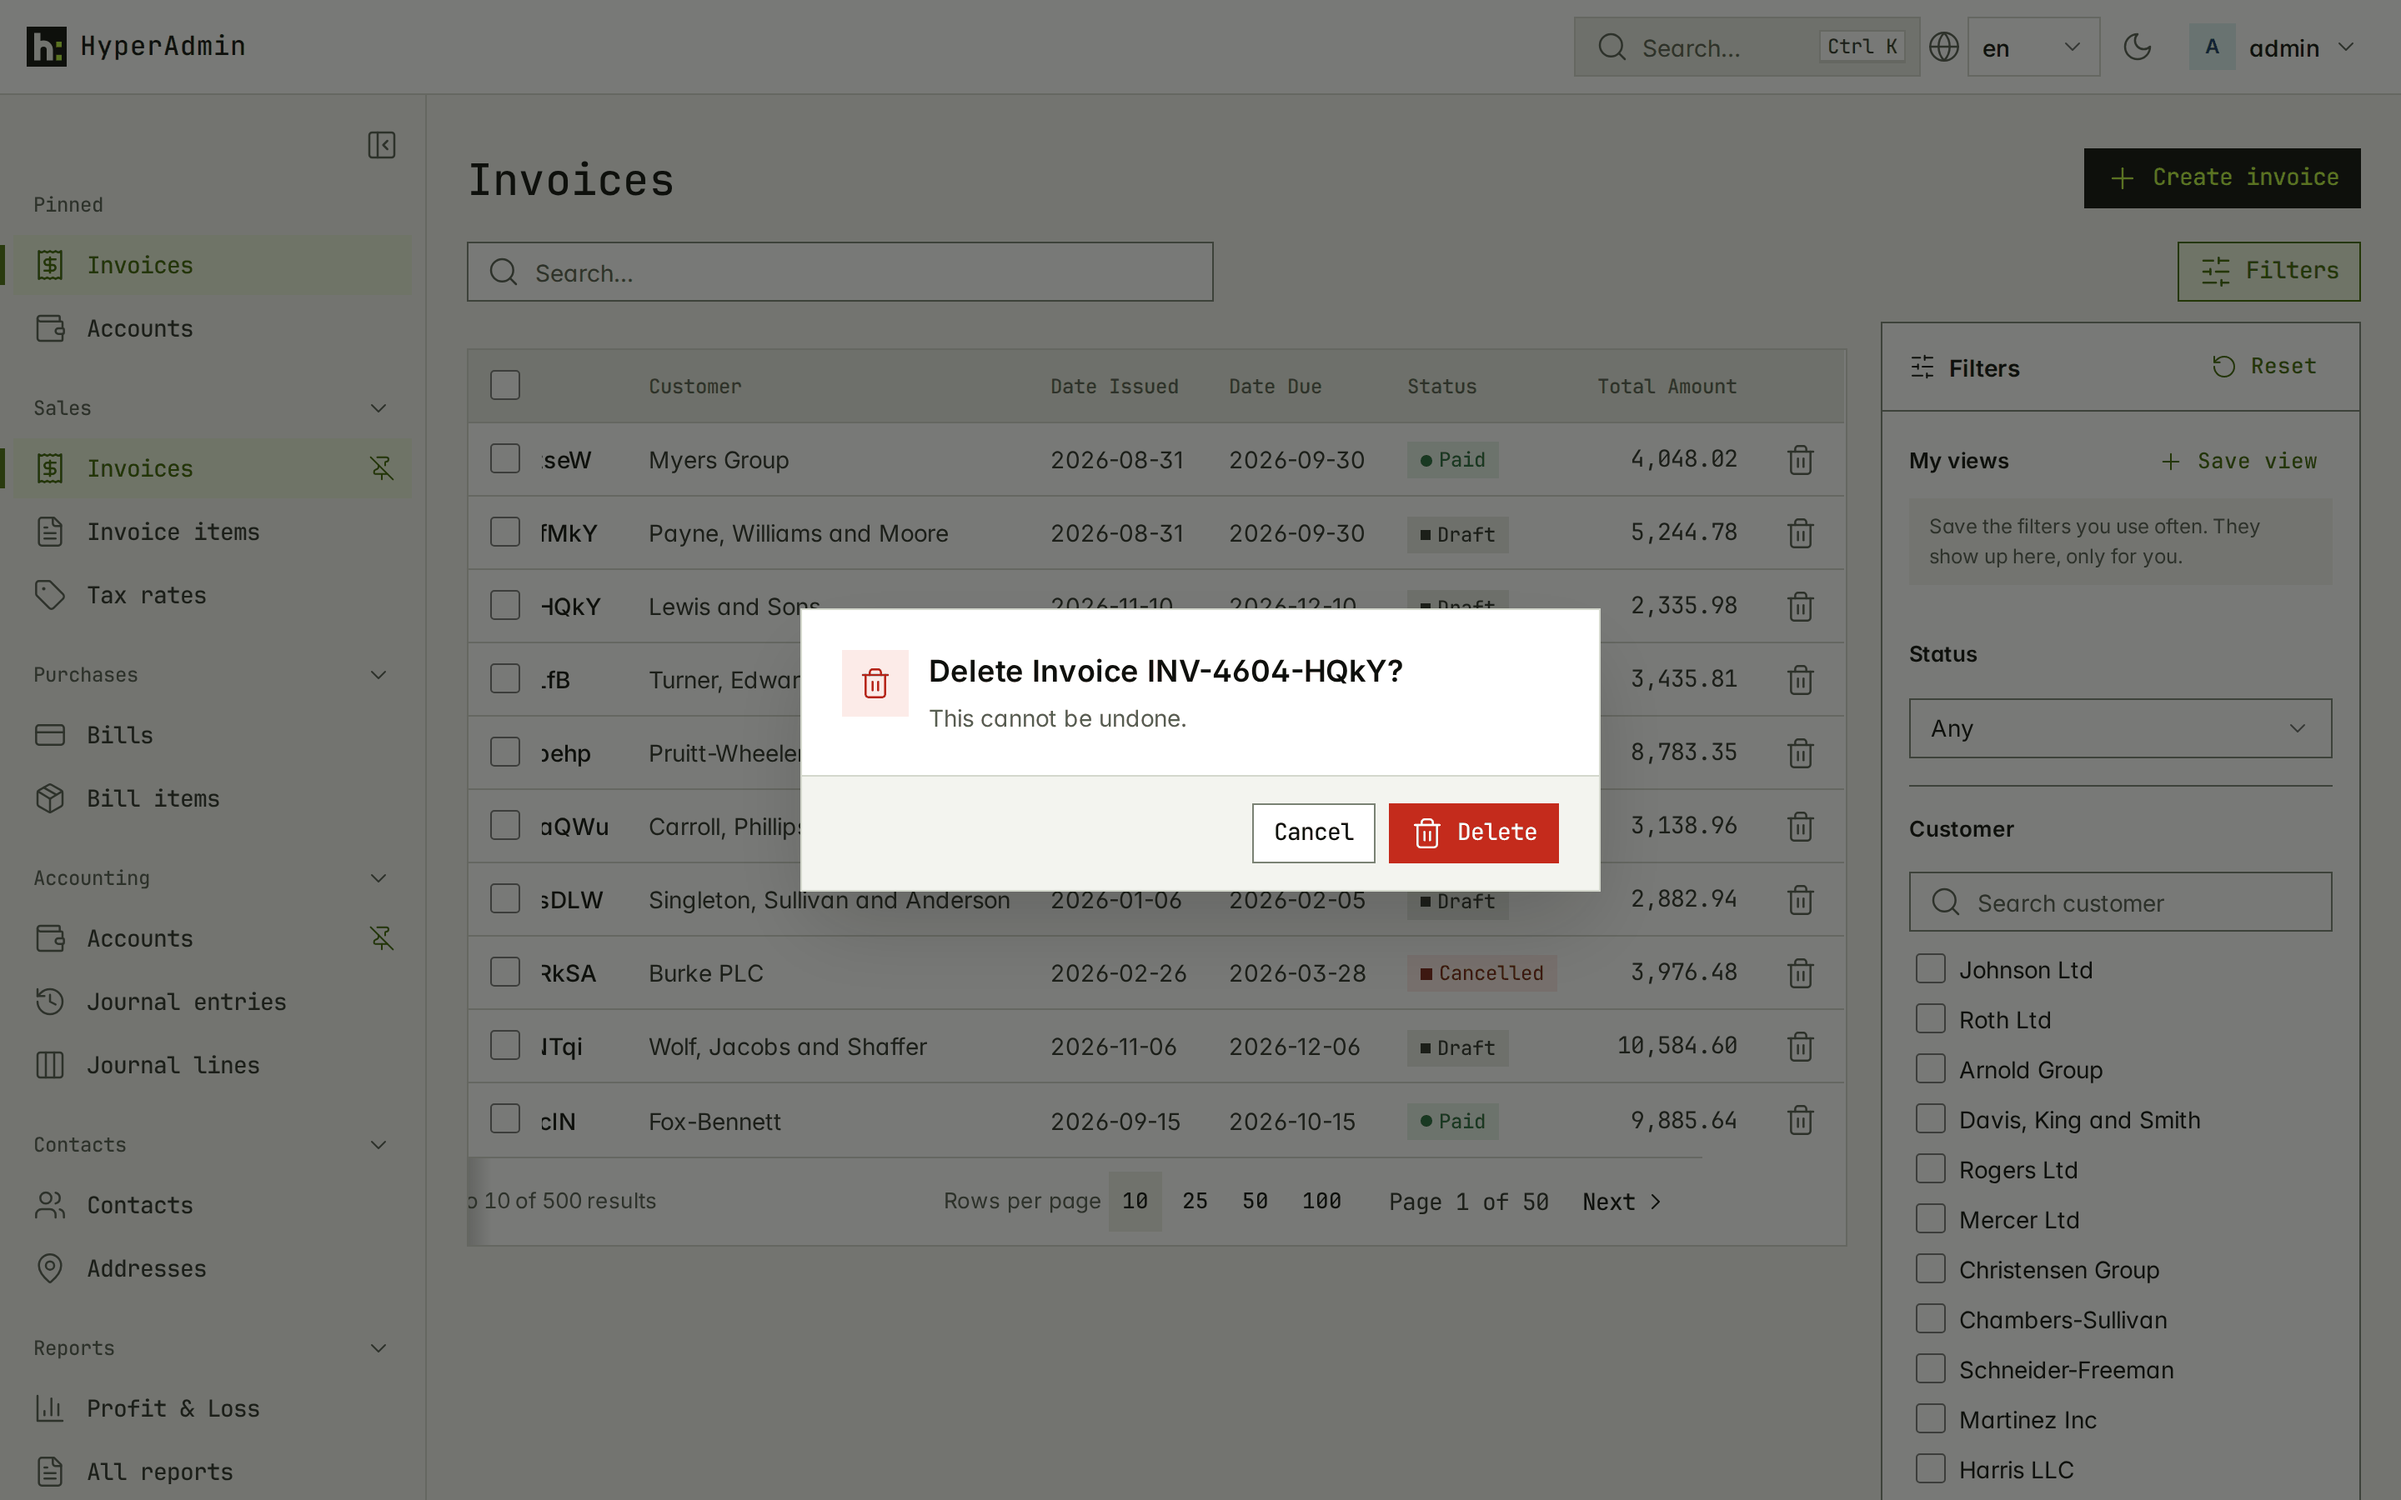
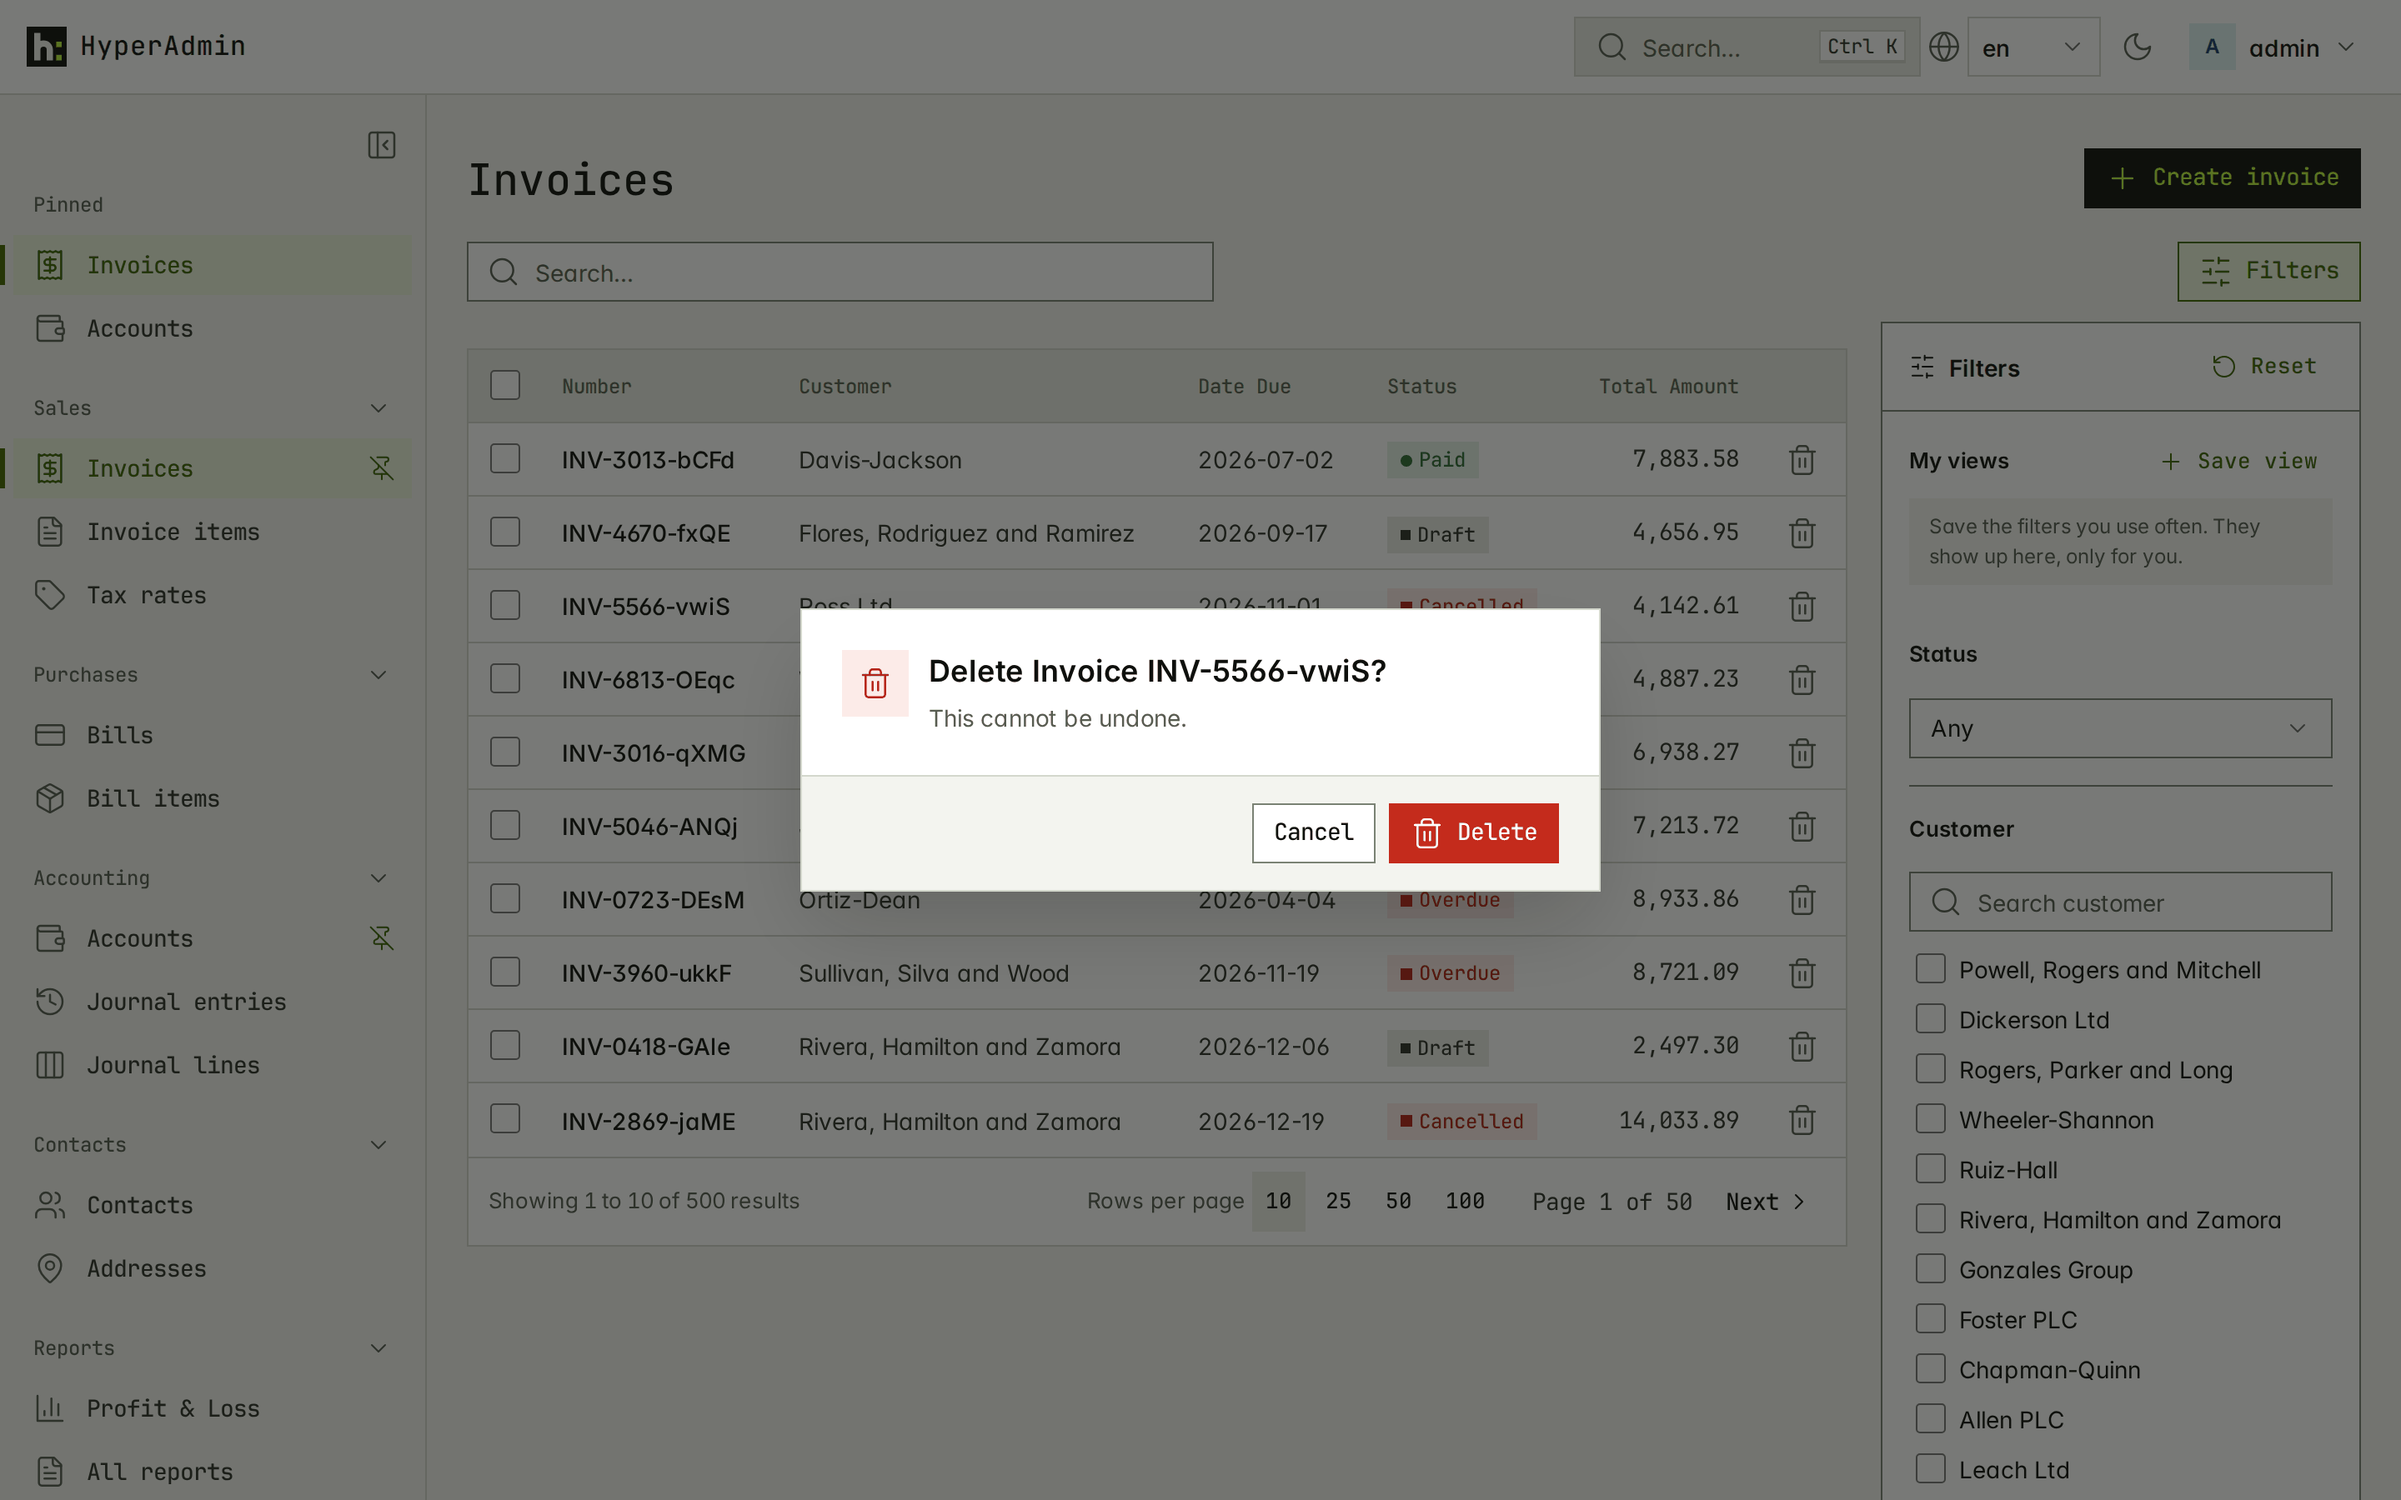
docs: drop the date issued column so the invoice list fits the screenshot

diff --git a/examples/erp/loadtest/endpoints.py b/examples/erp/loadtest/endpoints.py
@@ -47,7 +47,7 @@ WRITE_TASK_WEIGHTS: dict[str, int] = {
 # Sortable columns per model (valid sort_by values).
 SORT_FIELDS: dict[str, tuple[str, ...]] = {
     "contact": ("name", "email", "contact_type"),
-    "invoice": ("number", "date_issued", "date_due", "status"),
+    "invoice": ("number", "date_due", "status"),
     "journalline": ("debit", "credit"),
 }
 

diff --git a/examples/erp/sales/admin.py b/examples/erp/sales/admin.py
@@ -32,7 +32,6 @@ class InvoiceAdmin(ModelAdmin):
     list_display: ClassVar[list[str]] = [
         "number",
         "customer",
-        "date_issued",
         "date_due",
         "status",
         "total_amount",

diff --git a/CHANGELOG.md b/CHANGELOG.md
@@ -329,6 +329,10 @@ Version numbers follow [PEP 440](https://peps.python.org/pep-0440/) (for example
 - `get_display_name` skips attributes that can't load on a detached row (#773).
 
 ### Documentation
+- **The ERP invoice list fits next to the filter panel.** The example's Invoices list drops the
+  Date Issued column (Date Due, its filter and the detail and edit pages keep the dates), so the
+  README hero shot and the other invoice-list screenshots show Total Amount whole instead of a
+  clipped, scrolling table. The ERP load test no longer sorts invoices by issue date.
 - **Demo load-test card re-recorded after the SQLite search fix.** The demo video and the
   load-test screenshot show the current SQLite figures (1.2 million rows, 20 users, 30 s, second
   of two runs): reads 46 req/s with list and detail at a 9 ms median, search 110 ms median and
